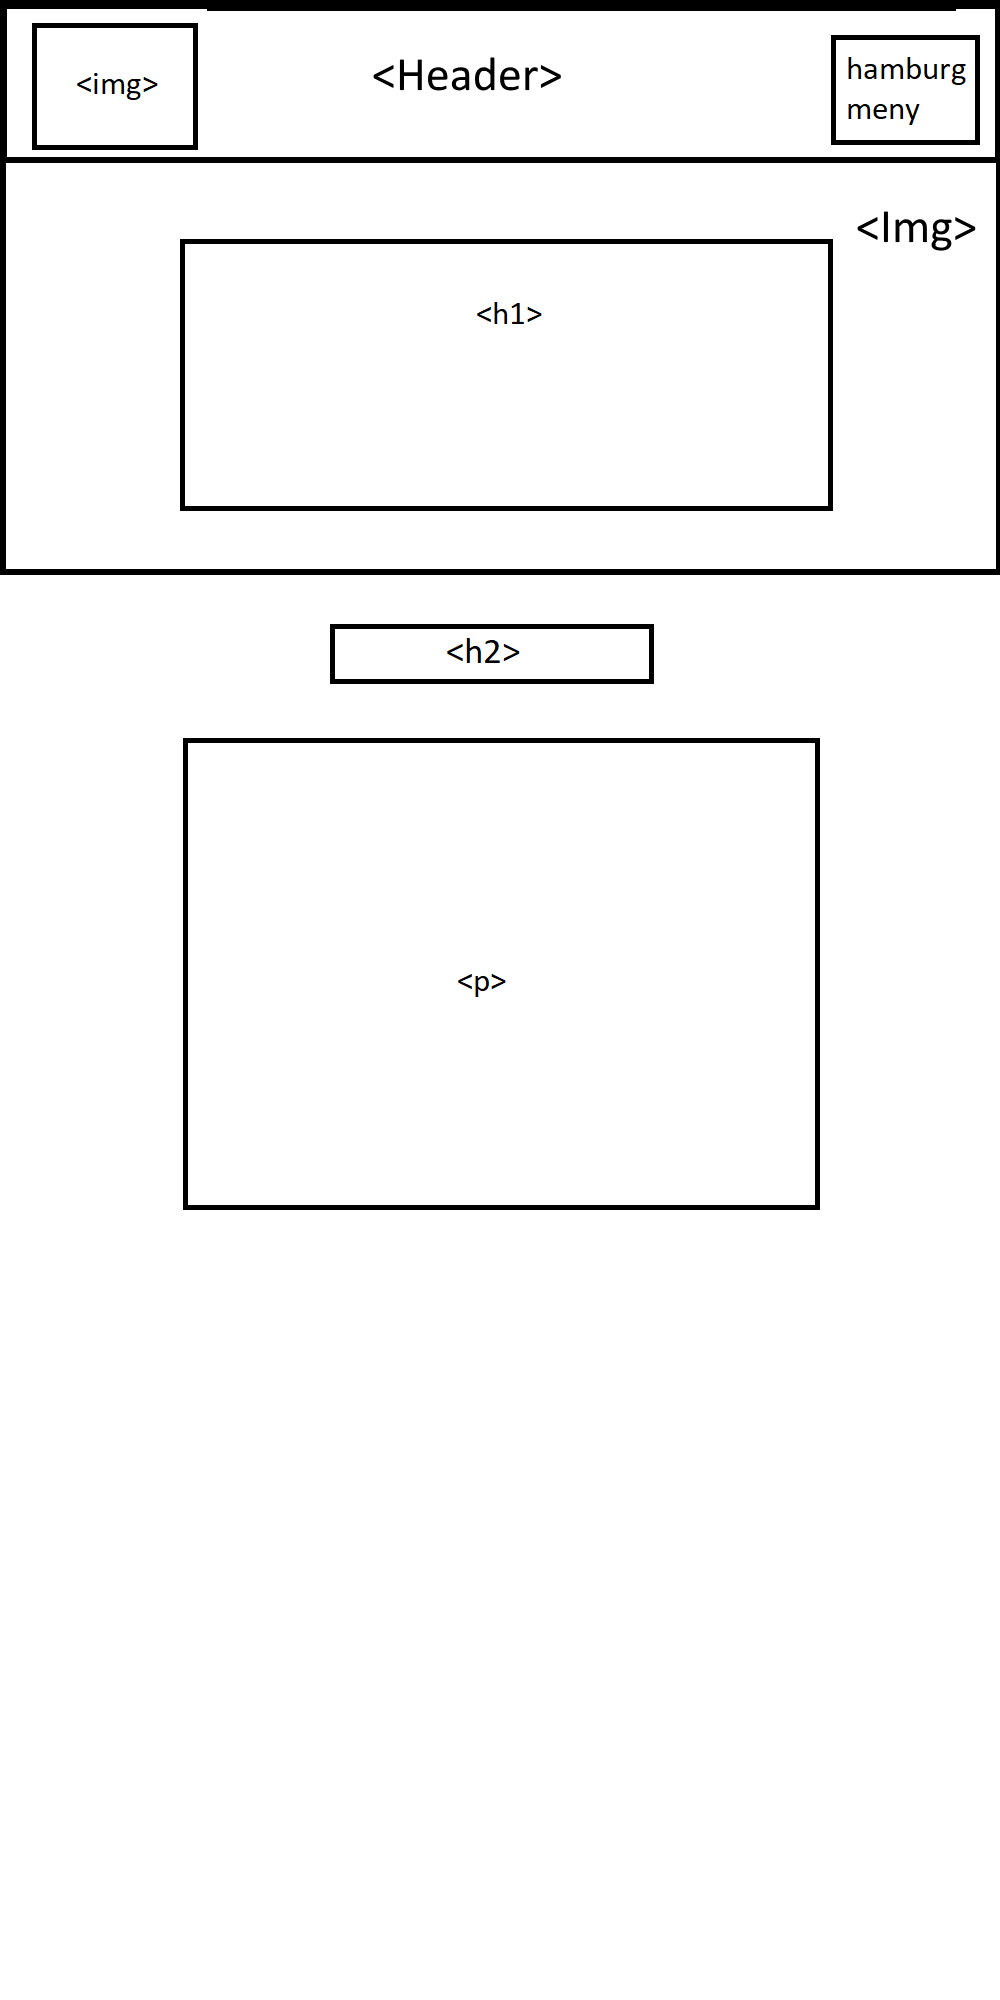
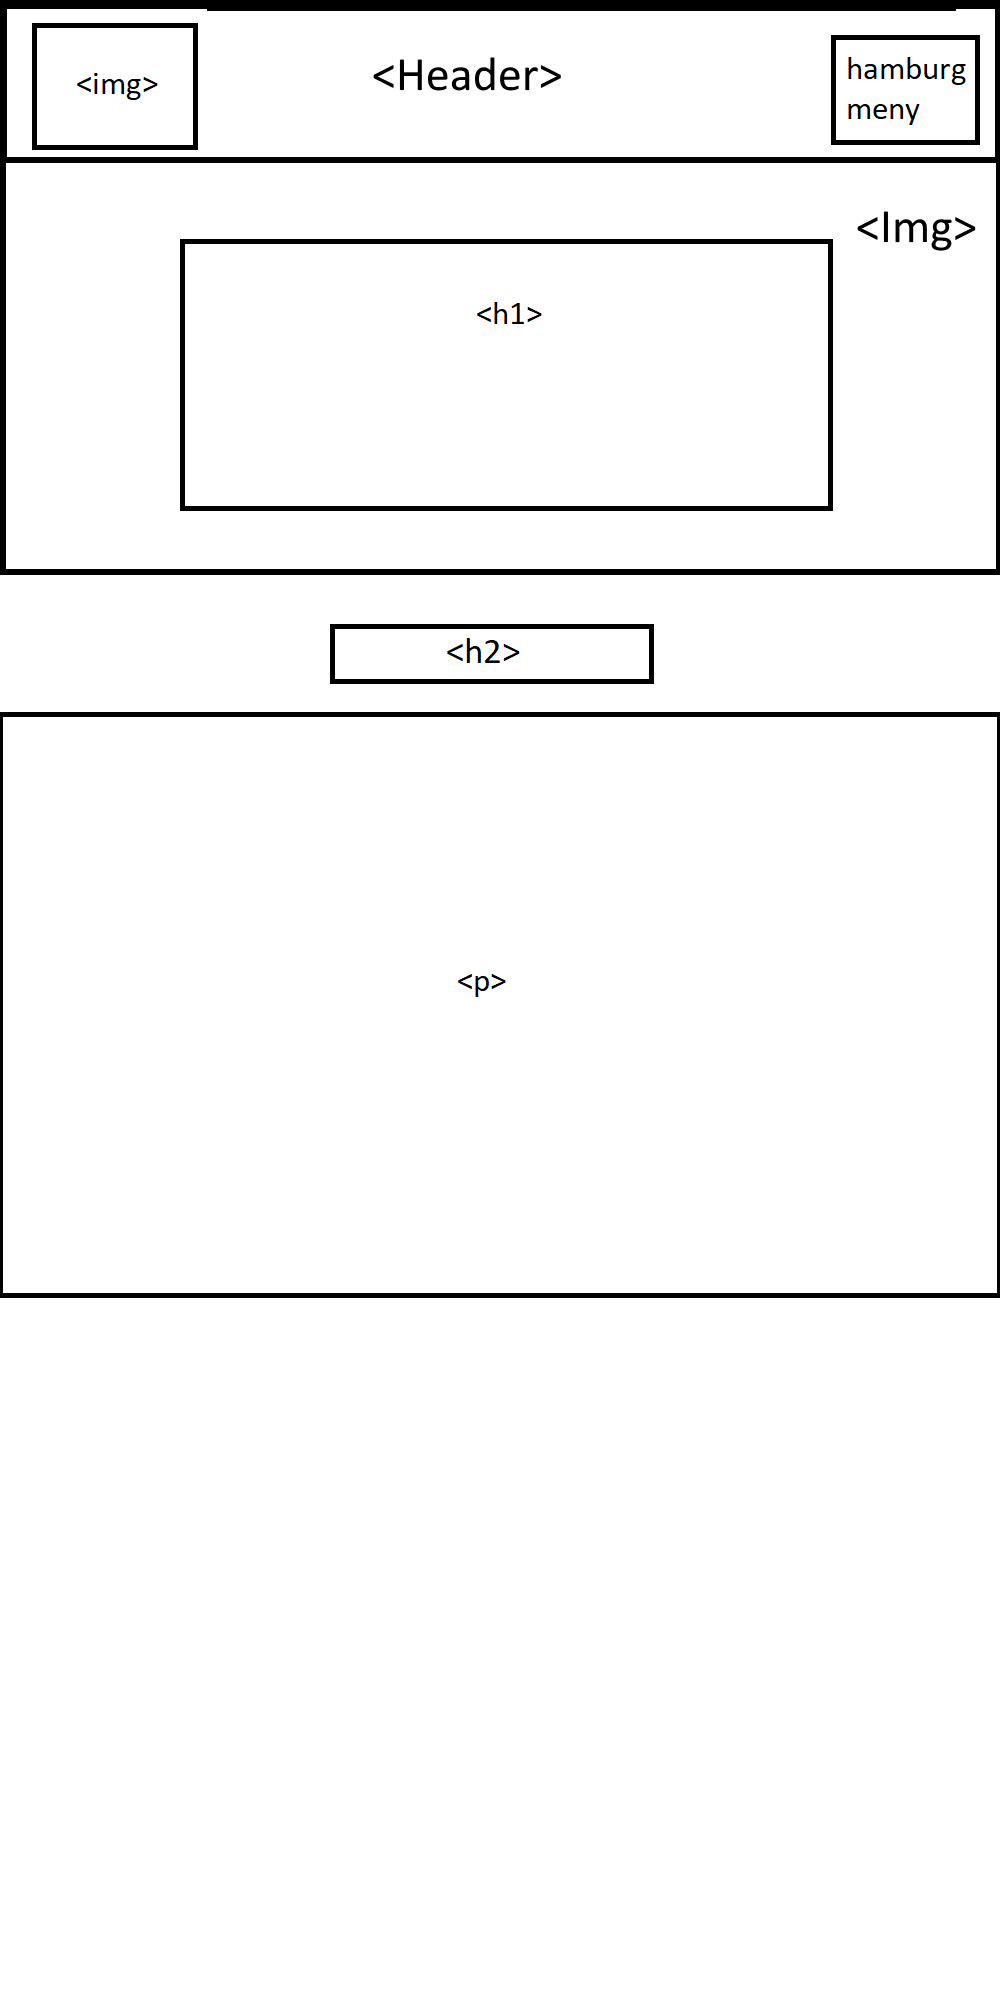
Lektion v.8

diff --git a/css/style.css b/css/style.css
@@ -1,5 +1,10 @@
 body {
     margin: 0px;
+    width: 100%;
+}
+
+p {
+    margin: 0;
 }
 
 .container {
@@ -41,18 +46,39 @@ nav {
 
 .change .bar1 {
     transform: rotate(-45deg) translate(-9px, 6px);
+    background-color: white;
 }
 
 .change .bar2 {opacity: 0;
+    background-color: white;
 }
 
 .change .bar3 {
     transform: rotate(45deg) translate(-8px, -8px);
+    background-color: white;
+}
+
+.menu{
+    transform: translateX(115%);
+    transition: transform .5s ease;
+    display: block;
+    background-color: #280511;
+    position: fixed;
+    float: right;
+    height: 100%;
+    width: 75%;
+    right: 0;
+    top: 0;
+}
+
+.menu.show{
+    transform: translateX(0);
 }
 
 .menu.active {
     display: block;
-    background-color: tomato;
+    background-color: black;
+    color: white;
     position: fixed;
     float: right;
     height: 100%;
@@ -63,8 +89,30 @@ nav {
 
 .logo {
     height: 6.4vh;
-    margin-left: 1vw;
+    margin-left: 1.6vw;
+    margin-top: -0.25vh;
 }
+
+.line {
+    margin-top: 8vh;
+    height: 2px;
+    width: 100%;
+    background-color: #E91E63;
+}
+
+.menu a {
+    color: white;
+    text-decoration: none;
+    font-family: sans-serif;
+}
+
+.menu p {
+
+    font-size: 5vh;
+    padding-left: 5vw;
+    margin-top: 5vh;
+}
+
 
 
 #front-image {
@@ -72,11 +120,12 @@ nav {
     background-repeat: no-repeat;
     background-position-x: 90%;
     background-size: 200%;
+    width: 100%;
 }
 
 h1 {
     color: white;
-    font-size: 7vh;
+    font-size: 12vw;
     text-align: center;
     font-family: 'Raleway';
     text-shadow: black 0.5vh 0.5vh;

diff --git a/index.html b/index.html
@@ -14,7 +14,12 @@
     <header>
         <img class="logo" src="img/logo.png" alt="">
         <div class="menu">
-            
+            <div class="line"></div>
+            <p><a href="index.html">Startsida</a></p>
+            <p><a href="regler.html">Regler</a></p>
+            <p><a href="mote.html">Möte Info</a></p>
+            <p><a href="anime.html">Animekultur</a></p>
+            <p><a href="historik.html">Historik</a></p>
         </div>
         <div class="button">
             <div class="bar1"></div>
@@ -30,6 +35,9 @@
         <h1>Animeklubbens</h1>
         <h1>Webbsida</h1>
     </main>
+
+    <h2>Generell Info</h2>
+    <p>I Animeklubben kan du hitta allt ifrån casual anime och manga till cosplay och utklädnader.</p>
 
 
 

diff --git a/misc/planering.html b/misc/planering.html
@@ -80,6 +80,7 @@
             <td>7</td>
             <td>
                 <!-- Vad görs på lektionen vecka 7? -->
+                Lov
             </td>
             <td>
                 <!-- Vad görs utanför lektionen vecka 7? -->
@@ -90,6 +91,7 @@
             <td>8</td>
             <td>
                 <!-- Vad görs på lektionen vecka 8? -->
+                Lagt till ytterligare animationer till hamburgmenyn och lagt till länkar i menyn samt bytt färg. Även börjat färdigställa index sidan.
             </td>
             <td>
                 <!-- Vad görs utanför lektionen vecka 8? -->

diff --git a/js/script.js b/js/script.js
@@ -1,5 +1,5 @@
 document.querySelector('.button').addEventListener('click', function () {
 
     document.querySelector('.button').classList.toggle('change');
-    document.querySelector('.menu').classList.toggle('active');
+    document.querySelector('.menu').classList.toggle('show');
 });
